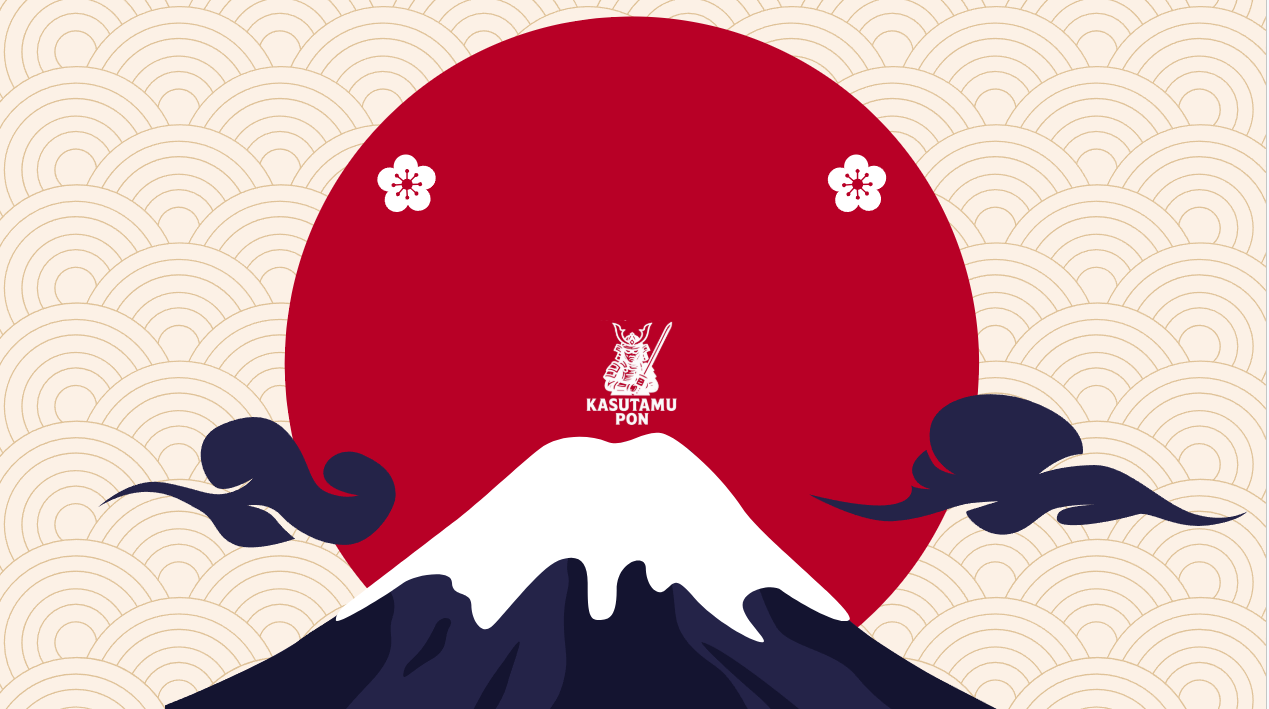
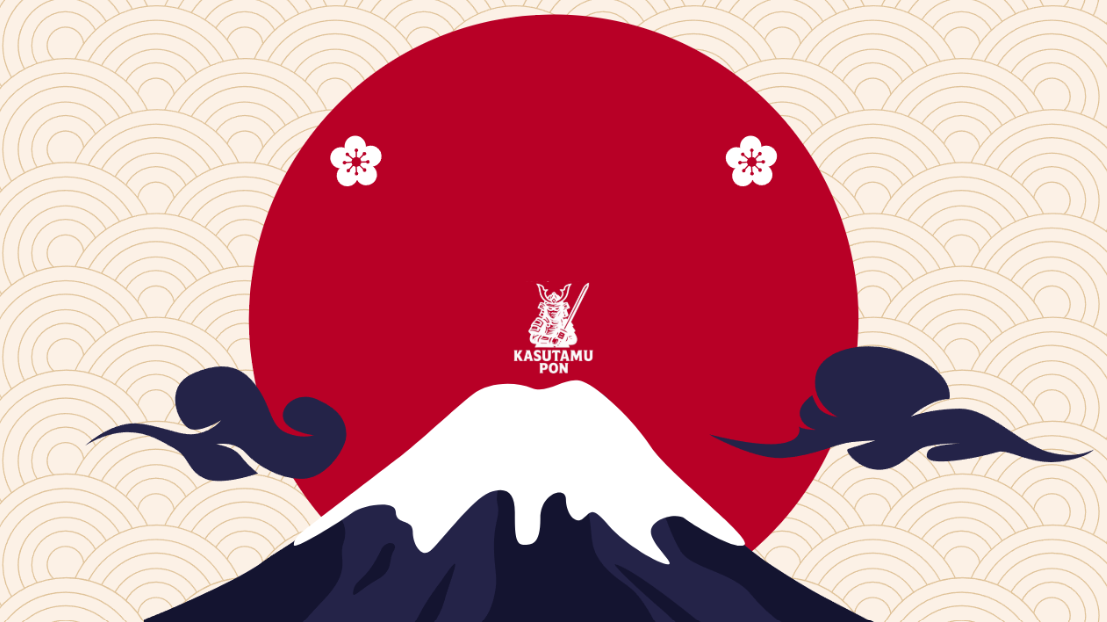
projet

diff --git a/public/css/style.css b/public/css/style.css
@@ -128,7 +128,7 @@ body {
     font-size: 40px;
     font-weight: 500;
     margin-top: -370px;
-    margin-left: 478px;
+    margin-left: 498px;
     text-align: center;
     color: #ffffff;
 }
@@ -143,7 +143,7 @@ body {
 .hero2-text-center .jp2 {
     font-weight: 500;
     margin-top: 5px;
-    margin-left: 478px;
+    margin-left: 498px;
     text-align: center;
     color: #ffffff;
 }
@@ -156,7 +156,7 @@ body {
 
 .btn-hero {
     display: inline-block;
-    margin-top: 230px;
+    margin-top: 120px;
     background: var(--bleu);
     color: white;
     padding: 16px 40px;
@@ -470,3 +470,74 @@ body {
     cursor: pointer;
     margin-left: 5px;
 }
+
+
+/* ============================
+   VERSION TABLETTE (600 → 1024px)
+   ============================ */
+@media (max-width: 1024px) and (min-width: 600px) {
+
+    /* HEADER */
+    .header-top {
+        padding: 15px 20px;
+        justify-content: space-between;
+    }
+
+    .menu {
+        display: none !important; /* cache le menu PC */
+    }
+
+    /* HERO */
+    .hero {
+        height: 360px; /* plus compact */
+        display: flex;
+        align-items: center;
+    }
+
+    /* Samouraïs */
+    .portrait img,
+    .portrait1 img {
+        height: 70%; /* taille tablette */
+        object-fit: contain;
+    }
+
+    /* Image de fond */
+    .hero-image {
+        height: 100%;
+        object-fit: cover;
+    }
+
+    /* Texte centré */
+    .hero-text-center {
+        top: 50%;
+        transform: translate(-50%, -50%);
+        padding: 0 20px;
+        width: 100%;
+    }
+
+    .hero-text-center h1 {
+        font-size: 32px;
+    }
+
+    .hero-text-center .jp {
+        font-size: 18px;
+    }
+
+    .tagline {
+        font-size: 14px;
+        margin-top: 15px;
+    }
+
+    .btn-hero {
+        margin-top: 30px;
+        padding: 12px 28px;
+        font-size: 16px;
+    }
+
+    /* Wave */
+    .wave img {
+        width: 100%;
+    }
+}
+
+

diff --git a/public/css/apropos.css b/public/css/apropos.css
@@ -79,50 +79,6 @@ body {
     display: flex;
 }
 
-.portrait img {
-    height: 100%;
-}
-
-.hero-center {
-    width: 100%;
-    max-width: 1400px;
-    position: relative;
-}
-
-.hero-image {
-    width: 135%;
-    height: 100%;
-    object-fit: cover;
-}
-
-
-.hero-text-center {
-    position: absolute;
-    top: 45%;
-    left: 50%;
-    transform: translate(-50%, -50%);
-    text-align: center;
-    color: white;
-    width: 100%;
-}
-
-.hero-text-center h1 {
-    font-size: 40px;
-    font-weight: 500;
-    /* margin-top: -150px; */
-    margin-left: 485px;
-}
-
-
-.hero2-text-center h1 {
-    font-size: 40px;
-    font-weight: 500;
-    margin-top: -370px;
-    margin-left: 478px;
-    text-align: center;
-    color: #ffffff;
-}
-
 
 .hero-text-center .jp {
     margin-top: 15px;
@@ -146,7 +102,7 @@ body {
 
 .btn-hero {
     display: inline-block;
-    margin-top: 230px;
+    margin-top: 125px;
     background: var(--bleu);
     color: white;
     padding: 16px 40px;
